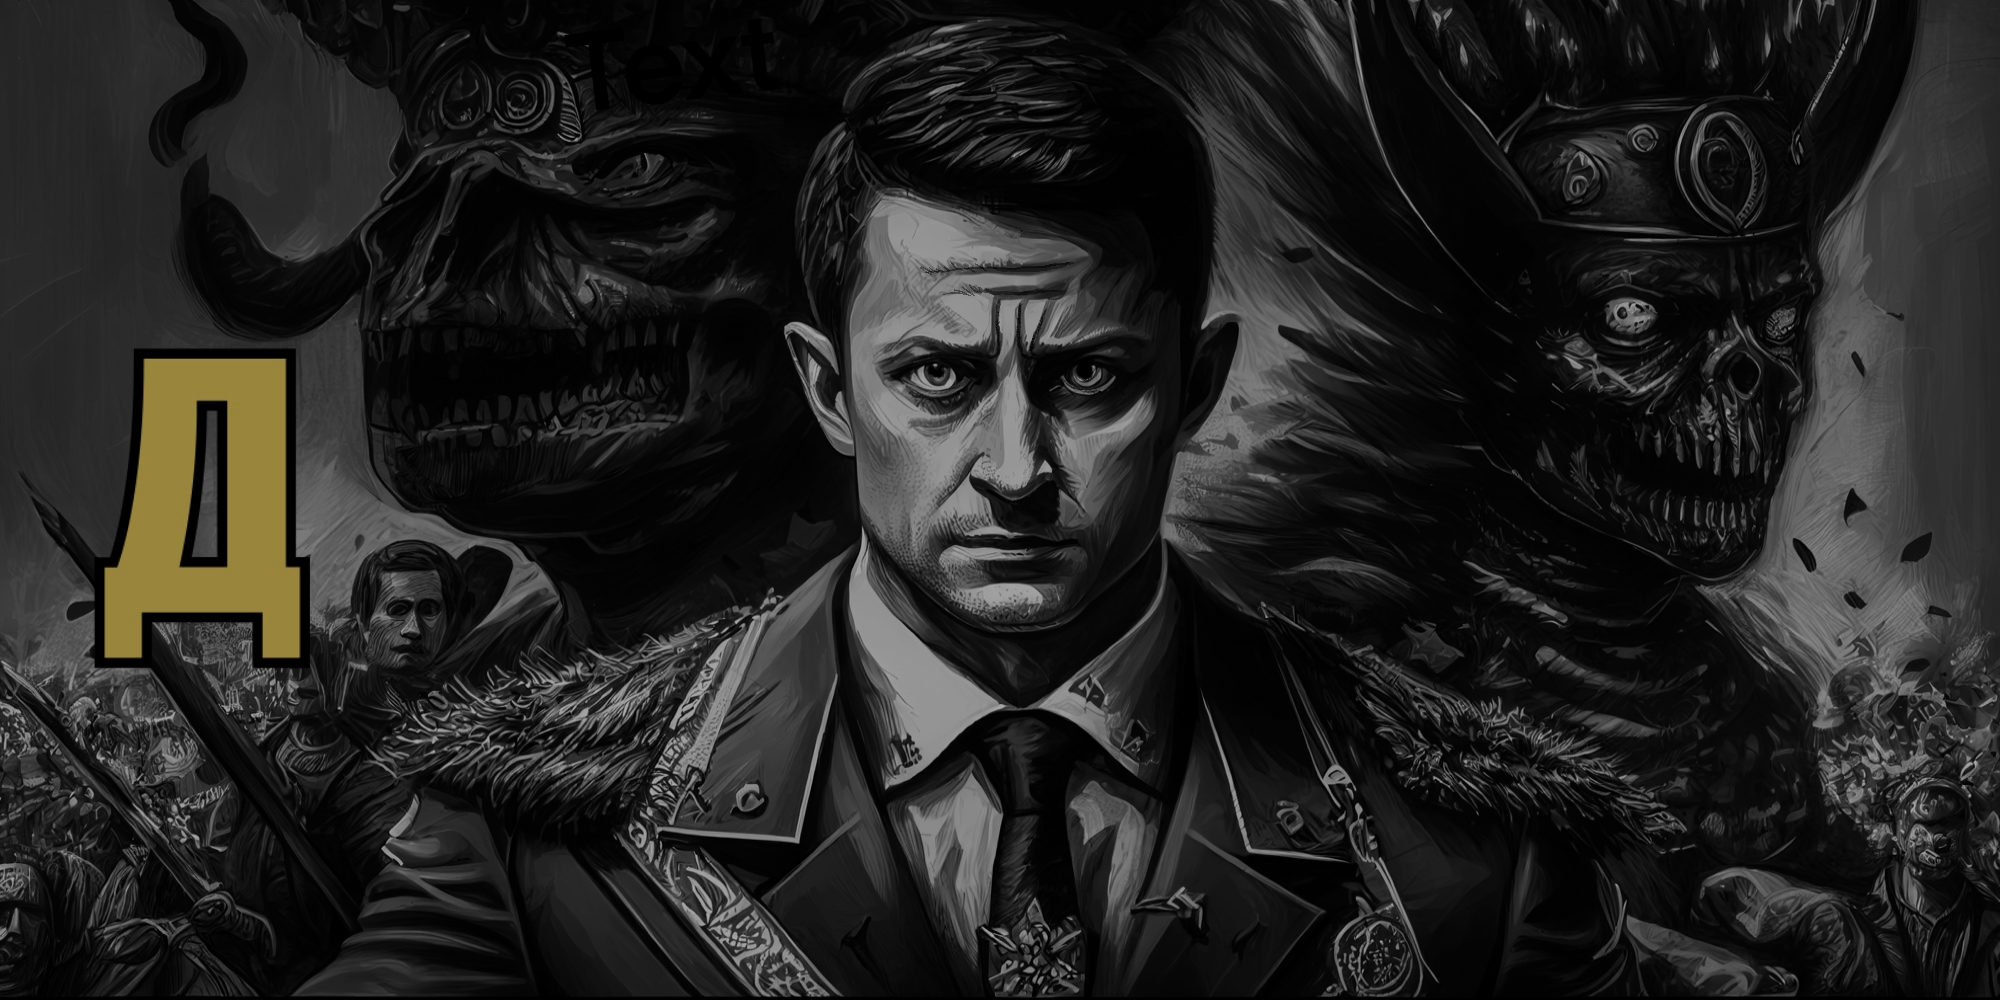
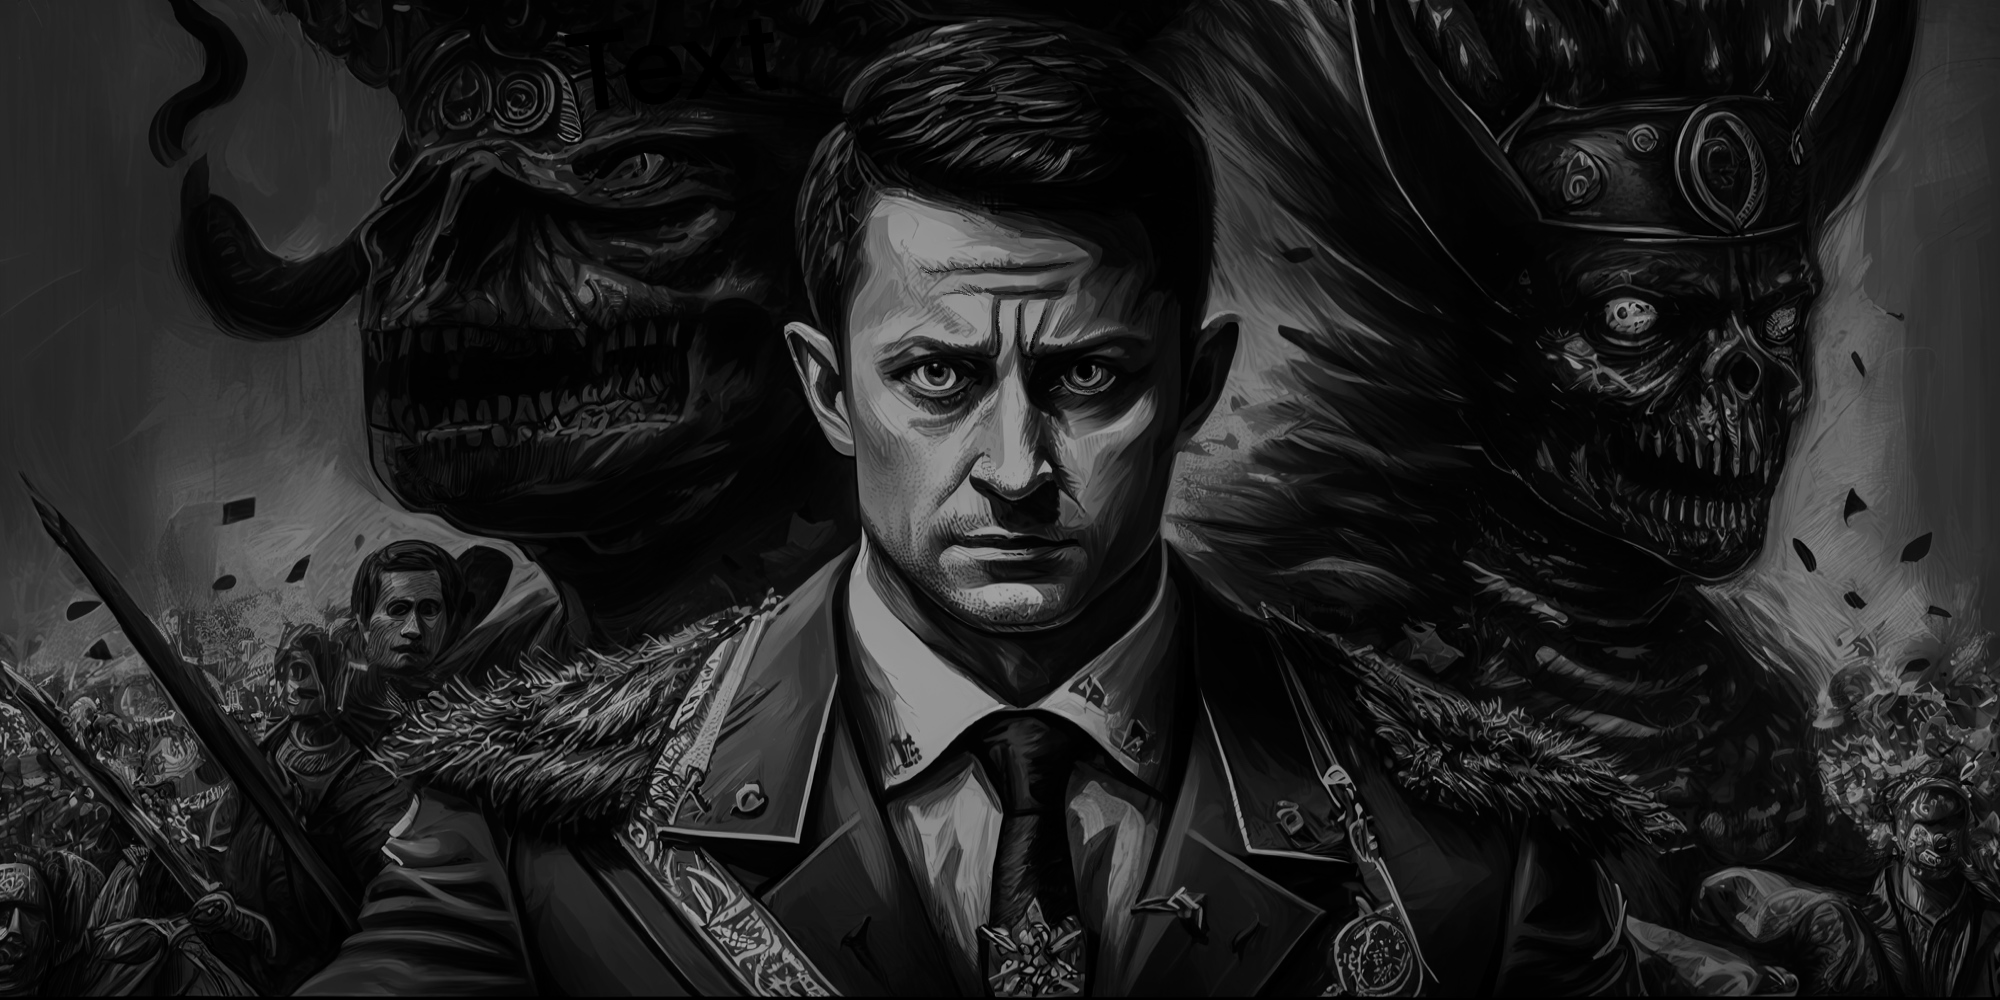
letters

Changed region(s): [[0.031, 0.341, 0.155, 0.682]]

diff --git a/index.html b/index.html
@@ -167,6 +167,7 @@
                         перед нами «нелюди», «убийцы», «звери». Враг настолько ужасен, что его необходимо уничтожить.
                     </p>
                 </div>
+               
             </div>
 
             <div class="card-small__container card-small__container_vis">
@@ -349,6 +350,7 @@
                         – «семейные ценности», «русская национальная идея», «правовое государство».
                     </p>
                 </div>
+
             </div>
             <div class="card-small__container card-small__container_vis">
                 <img src="./images/imgs/13.JPG" class="card-small__foto">
@@ -554,6 +556,7 @@
                         Евгением Пригожиным группу изданий и пабликов в соцсетях.
                     </p>
                 </div>
+                <img src="./images/imgs/letter_f.png" class="card-big-letter">
             </div>
             <div class="card-small__container card-small__container_vis">
                 <img src="./images/imgs/20.JPG" class="card-small__foto">

diff --git a/index.css b/index.css
@@ -218,7 +218,7 @@ a{
 .card-big__container {
     display: flex;
     flex-direction: row;
-
+    position: relative;
     background-position: center;
     background-size: cover;
     background-repeat: no-repeat;
@@ -227,6 +227,15 @@ a{
     width: 100%;
     max-width: 1280px;
 
+}
+.card-big-letter{
+    position: absolute;
+    height: 150px;
+}
+
+.card-big-letter_f, .card-big-letter_n, .card-big-letter_r
+{
+    
 }
 
 .card-big__container_invisible {
